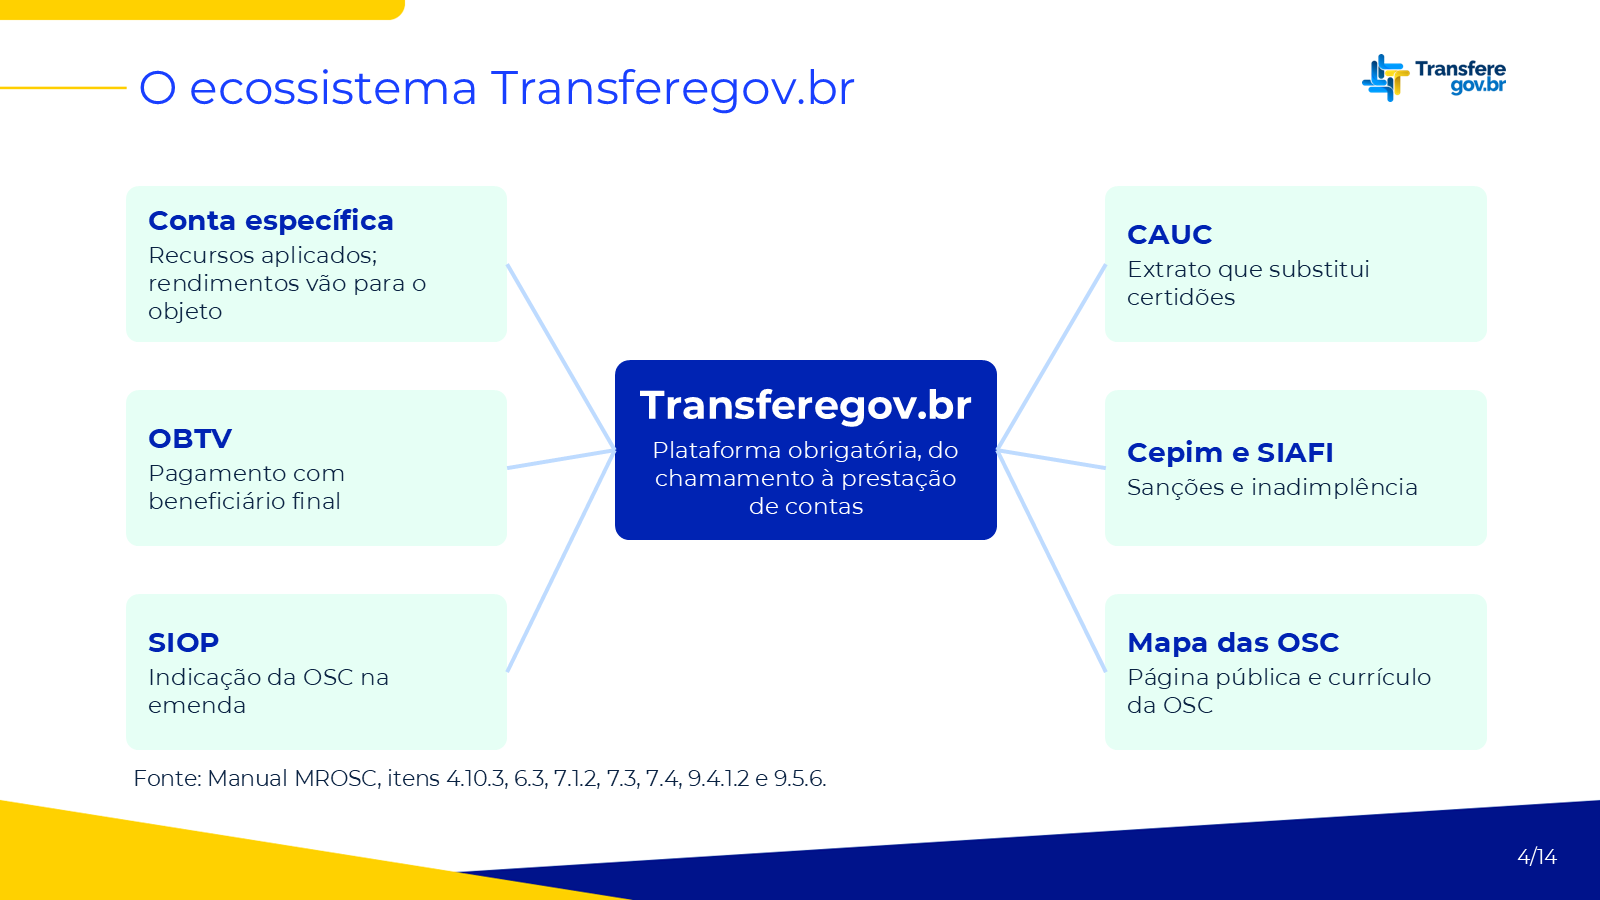
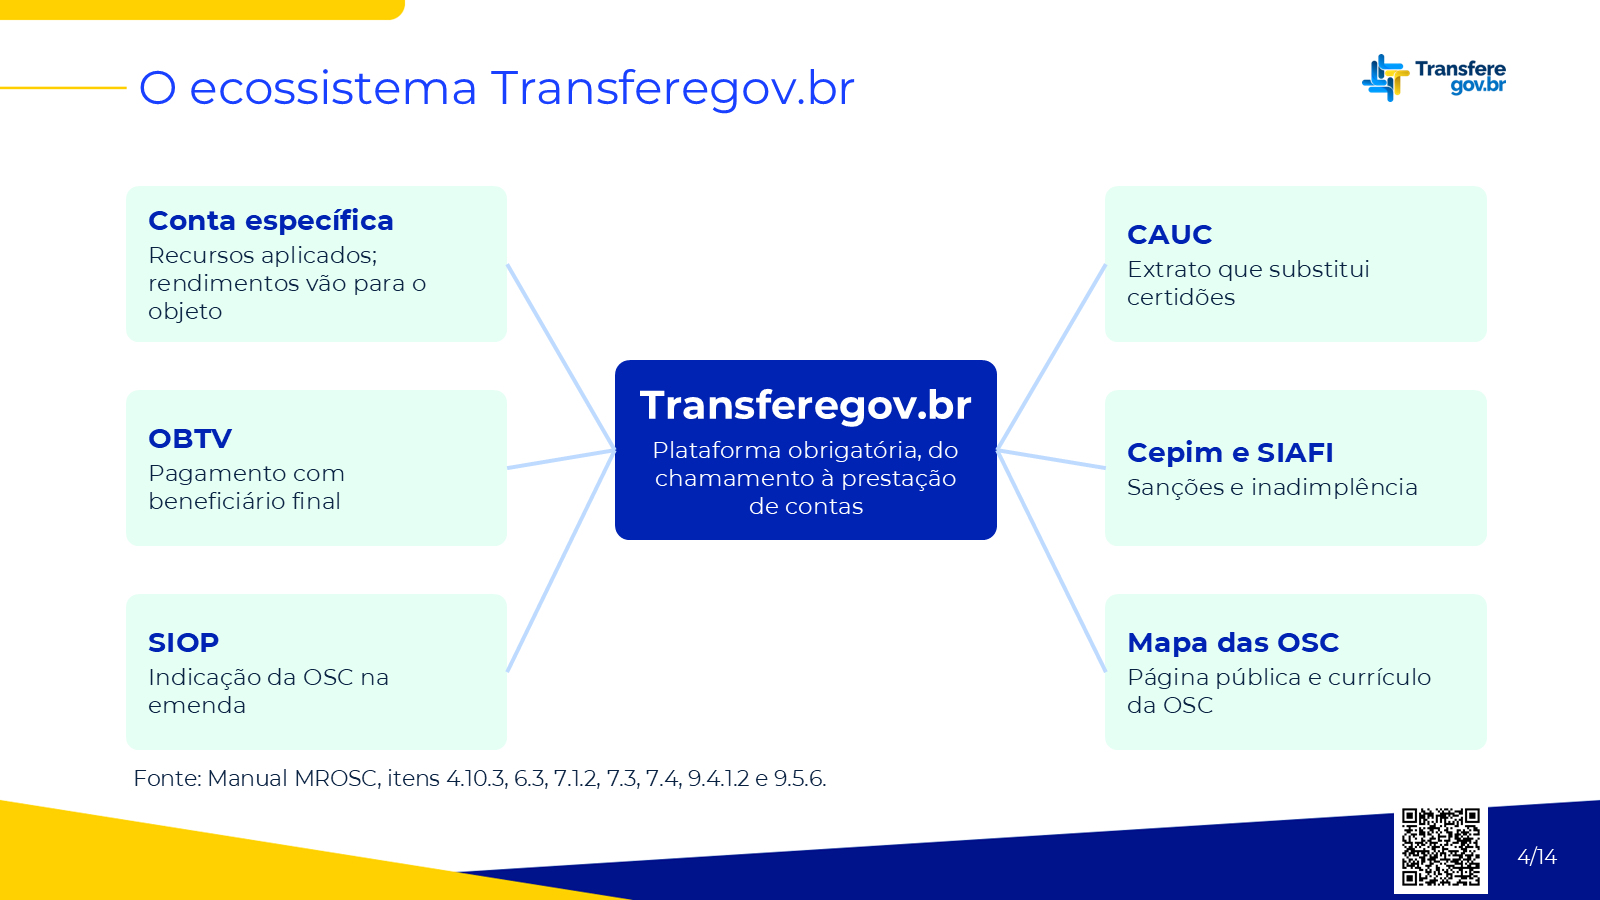
Atualiza os slides com o QR code pequeno em todos
Renderizado da fonte 1dd859e (slides de 0933498). O texto alternativo do QR
é citado só na primeira vez em que aparece, para não se repetir em todo
slide.

Changed region(s): [[0.8438, 0.8711, 0.9375, 0.9956]]

diff --git a/scripts/montar_publico.py b/scripts/montar_publico.py
@@ -214,6 +214,7 @@ def pagina_slides(chave, slides):
     ap = APRESENTACOES[chave]
     total = len(slides)
     itens = []
+    ja_citadas = set()  # o QR pequeno se repete em todos os slides: cita só na primeira vez
     for s in slides:
         textos = texto_do_slide(s["textos"], total)
         titulo = textos[0] if textos else f"Slide {s['numero']}"
@@ -223,7 +224,9 @@ def pagina_slides(chave, slides):
         textos = unir_textos_de_link(textos, s.get("links") or [])
         paragrafos = "\n".join(
             "<p>" + "<br>".join(linha_html(l, links) for l in t.split("\n") if l.strip()) + "</p>" for t in textos)
-        citadas = imagens_citadas(s.get("imagens") or [], links)
+        brutas = [a for a in (s.get("imagens") or []) if " ".join((a or "").split()) not in ja_citadas]
+        ja_citadas.update(" ".join((a or "").split()) for a in brutas)
+        citadas = imagens_citadas(brutas, links)
         if citadas:
             paragrafos += "\n" + "\n".join(f"<p>{html.escape(c)}</p>" for c in citadas)
         usados = sum(paragrafos.count(f'href="{html.escape(e, quote=True)}"') > 0 for e in links.values())
